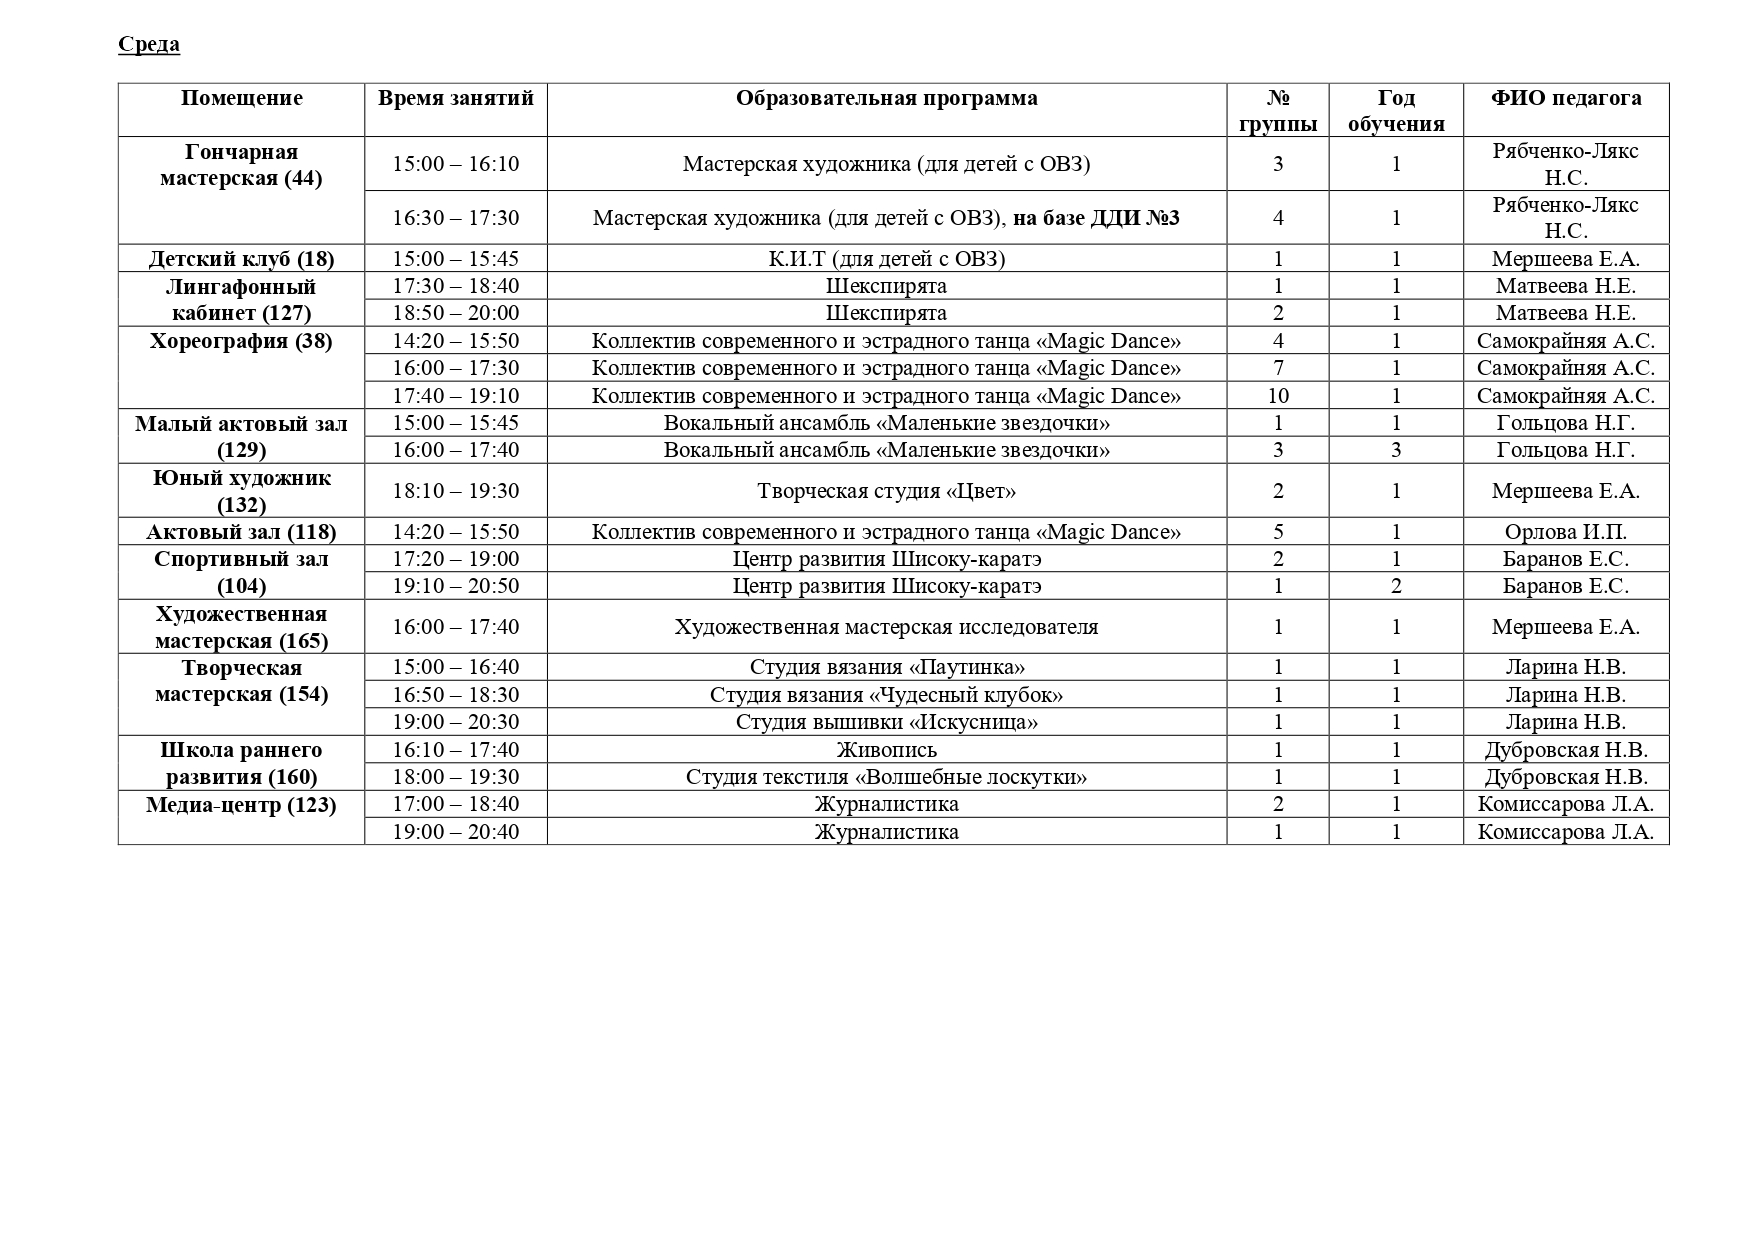
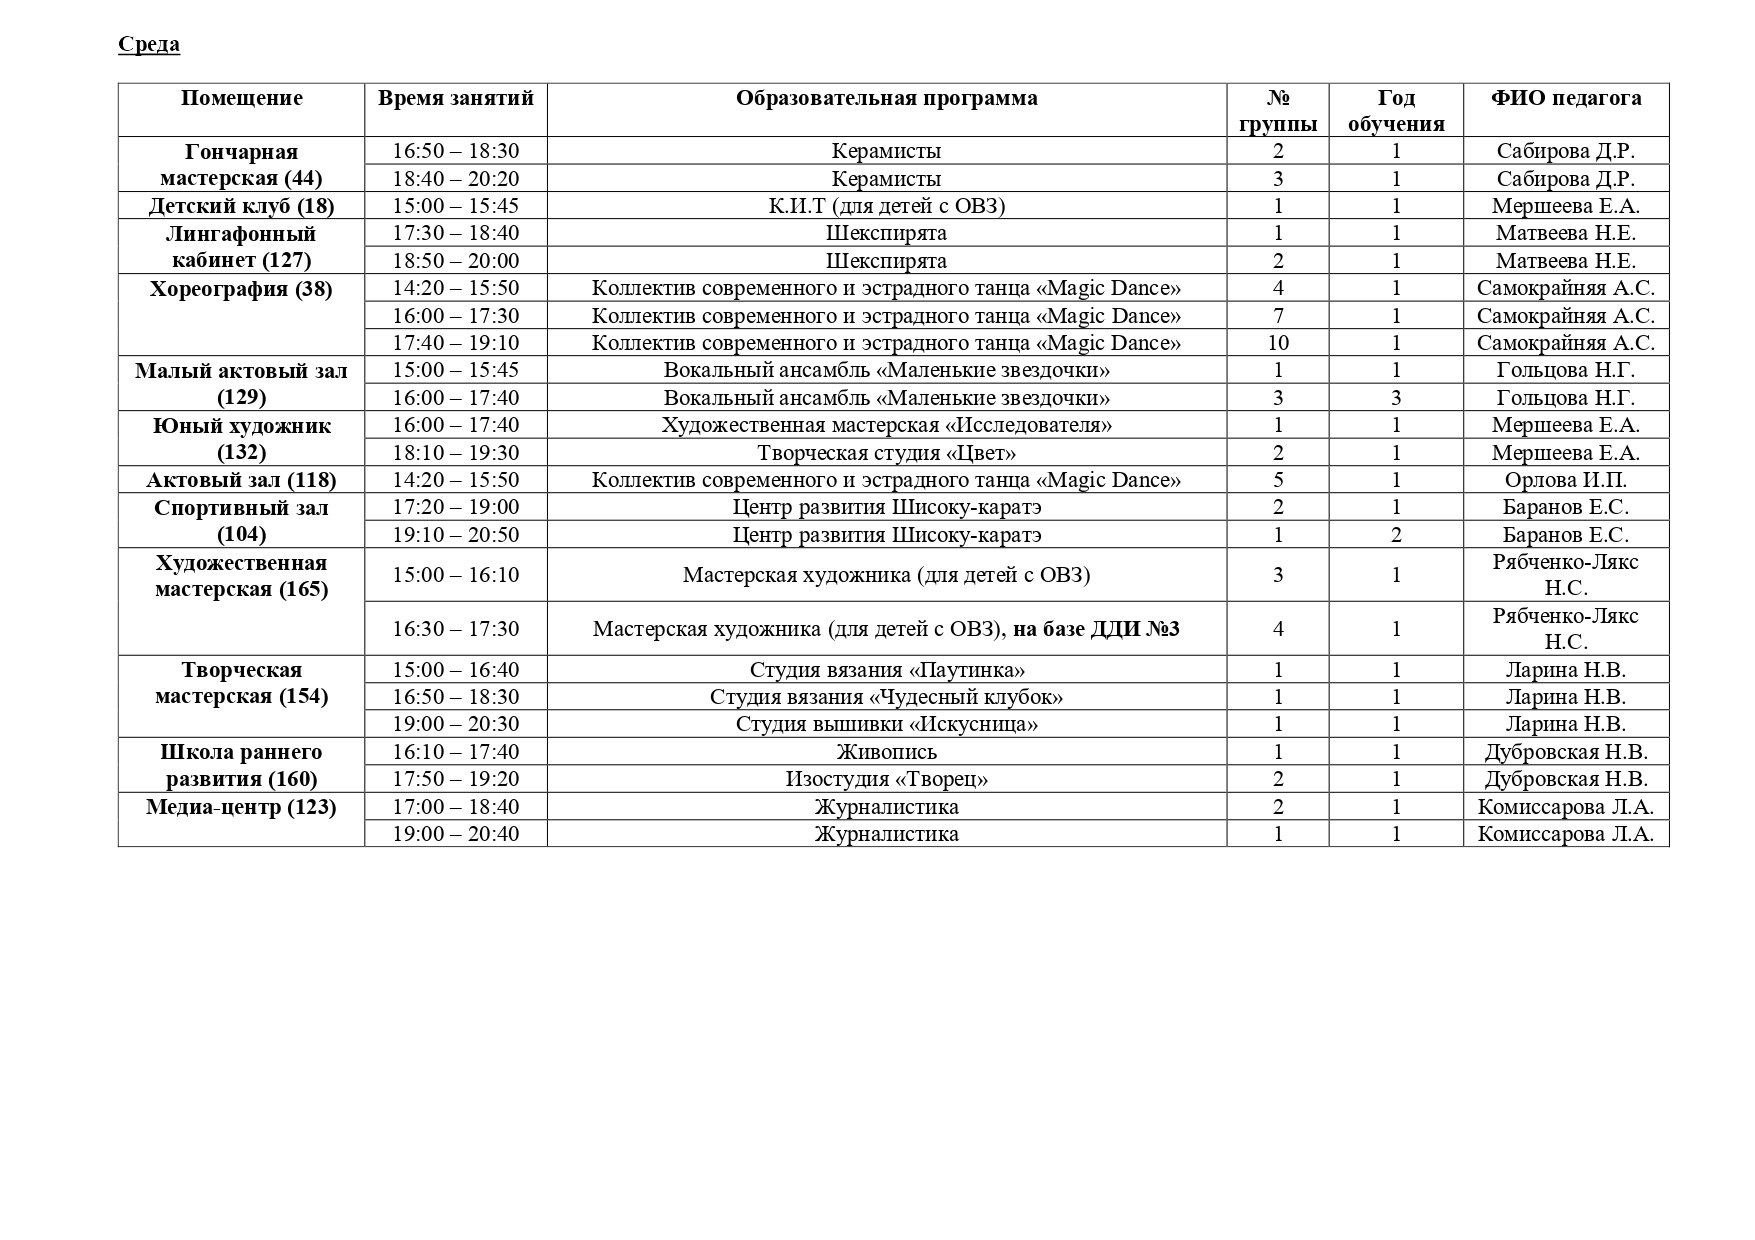
new courses + schedule fix

Changed region(s): [[0.0615, 0.0919, 0.9538, 0.7048]]

diff --git a/src/components/Courses/coursesCardsData.js b/src/components/Courses/coursesCardsData.js
@@ -5,6 +5,7 @@ const coursesCardsData = [
       src: "img/Courses/35.jpg",
     },
     title: "Изостудия «Творец»",
+    vacantPlaces: true,
     extraText: [5],
     category: "Художественная",
     programms: [
@@ -25,6 +26,8 @@ const coursesCardsData = [
         groups: [
           {
             id: 0,
+            vacantPlaces:
+              "Группа укомплектована (мест нет, возможна запись в резерв)",
             groupName: "Группа № 1",
             year: "1-й год обучения",
             age: "5 лет",
@@ -35,6 +38,23 @@ const coursesCardsData = [
               wednesday: "",
               thursday: "16:30 – 17:40",
               friday: "",
+              saturday: "",
+            },
+          },
+          {
+            id: 1,
+            // vacantPlaces:
+            //   "Группа укомплектована (мест нет, возможна запись в резерв)",
+            groupName: "Группа № 2",
+            year: "1-й год обучения",
+            age: "5 лет",
+            signInButtonAllowed: false,
+            schedule: {
+              monday: "",
+              tuesday: "",
+              wednesday: "17:50 – 19:20",
+              thursday: "",
+              friday: "17:50 – 19:20",
               saturday: "",
             },
           },
@@ -336,6 +356,124 @@ const coursesCardsData = [
   },
   {
     image: {
+      src: "img/Courses/39.jpg",
+    },
+    title: "Керамисты",
+    extraText: [5, 6, 7, 8, 9, 10, 11, 12],
+    vacantPlaces: true,
+    // extraInfo: [
+    //   {
+    //     text: "Укомплектовано",
+    //     description: "Мест нет - возможна запись в резерв",
+    //   },
+    // ],
+    category: "Художественная",
+    programms: [
+      {
+        programmName: "Керамисты",
+        teacher: {
+          teacherPic: ["./img/About/women-avatar.png"],
+          teacherName: ["Сабирова Динара Рафаиловна"],
+        },
+        category: "художественная",
+        duration: "1 год",
+        price: "на бюджетной основе (бесплатно)",
+        description: [
+          "В программе: лепка, аппликация, работа с гончарным кругом",
+        ],
+        groups: [
+          {
+            id: 0,
+            // vacantPlaces:
+            //   "Группа укомплектована (мест нет, возможна запись в резерв)",
+            groupName: "Группа № 1",
+            year: "1-й год обучения",
+            age: "5-6 лет",
+            signInButtonAllowed: false,
+            schedule: {
+              monday: "",
+              tuesday: "",
+              wednesday: "",
+              thursday: "",
+              friday: "17:20 – 18:30",
+              saturday: "",
+            },
+          },
+          {
+            id: 1,
+            // vacantPlaces:
+            //   "Группа укомплектована (мест нет, возможна запись в резерв)",
+            groupName: "Группа № 2",
+            year: "1-й год обучения",
+            age: "7-8 лет",
+            signInButtonAllowed: false,
+            schedule: {
+              monday: "16:50 – 18:30",
+              tuesday: "",
+              wednesday: "16:50 – 18:30",
+              thursday: "",
+              friday: "",
+              saturday: "",
+            },
+          },
+          {
+            id: 2,
+            // vacantPlaces:
+            //   "Группа укомплектована (мест нет, возможна запись в резерв)",
+            groupName: "Группа № 3",
+            year: "1-й год обучения",
+            age: "9-12 лет",
+            signInButtonAllowed: false,
+            schedule: {
+              monday: "",
+              tuesday: "",
+              wednesday: "18:40 – 20:20",
+              thursday: "",
+              friday: "18:40 – 20:20",
+              saturday: "",
+            },
+          },
+          {
+            id: 3,
+            // vacantPlaces:
+            //   "Группа укомплектована (мест нет, возможна запись в резерв)",
+            groupName: "Группа № 4",
+            year: "1-й год обучения",
+            age: "7-8 лет",
+            signInButtonAllowed: false,
+            schedule: {
+              monday: "15:00 – 16:40",
+              tuesday: "",
+              wednesday: "",
+              thursday: "",
+              friday: "15:30 – 17:10",
+              saturday: "",
+            },
+          },
+          {
+            id: 4,
+            // vacantPlaces:
+            //   "Группа укомплектована (мест нет, возможна запись в резерв)",
+            groupName: "Группа № 5",
+            year: "1-й год обучения",
+            age: "9-12 лет",
+            signInButtonAllowed: false,
+            schedule: {
+              monday: "18:40 – 20:20",
+              tuesday: "",
+              wednesday: "",
+              thursday: "",
+              friday: "",
+              saturday: "16:00 – 17:40",
+            },
+          },
+        ],
+        signInButton: "https://dopobr.petersburgedu.ru/programs/97009/groups/",
+      },
+    ],
+  },
+  {
+    image: {
       src: "img/Courses/15.jpg",
     },
     title: "Коллектив современного и эстрадного танца «Magic Dance»",
@@ -541,49 +679,49 @@ const coursesCardsData = [
       "./img/Courses/Achievements/15-8.jpeg",
     ],
   },
-  {
-    image: {
-      src: "img/Courses/32.jpg",
-    },
-    title: "Студия текстиля «Волшебные лоскутки»",
-    extraText: [6, 7],
-    category: "Художественная",
-    programms: [
-      {
-        programmName: "Студия текстиля «Волшебные лоскутки»",
-        teacher: {
-          teacherPic: ["./img/About/women-avatar.png"],
-          teacherName: ["Дубровская Наталия Вадимовна"],
-        },
-        category: "художественная",
-        duration: "1 год",
-        price: "на бюджетной основе (бесплатно)",
-        description: [
-          "Лоскутки - небольшие кусочки ткани, которые остались после раскроя и могут быть использованы для создания необычных изделий для декора.",
-          "В программе: индивидуальные работы детей /без использования иголок, ниток/, выполненных в технике «лоскутная аппликация» /объемная или плоская.",
-          "Результат: в процессе творческих занятий дети научатся создавать – лоскутные панно, декоративные украшения, подарки к праздникам, игрушки.",
-        ],
-        groups: [
-          {
-            id: 0,
-            groupName: "Группа № 1",
-            year: "1-й год обучения",
-            age: "6-7 лет",
-            signInButtonAllowed: false,
-            schedule: {
-              monday: "",
-              tuesday: "",
-              wednesday: "18:00 – 19:30",
-              thursday: "",
-              friday: "18:00 – 19:30",
-              saturday: "",
-            },
-          },
-        ],
-        signInButton: "https://dopobr.petersburgedu.ru/programs/92620/groups/",
-      },
-    ],
-  },
+  // {
+  //   image: {
+  //     src: "img/Courses/32.jpg",
+  //   },
+  //   title: "Студия текстиля «Волшебные лоскутки»",
+  //   extraText: [6, 7],
+  //   category: "Художественная",
+  //   programms: [
+  //     {
+  //       programmName: "Студия текстиля «Волшебные лоскутки»",
+  //       teacher: {
+  //         teacherPic: ["./img/About/women-avatar.png"],
+  //         teacherName: ["Дубровская Наталия Вадимовна"],
+  //       },
+  //       category: "художественная",
+  //       duration: "1 год",
+  //       price: "на бюджетной основе (бесплатно)",
+  //       description: [
+  //         "Лоскутки - небольшие кусочки ткани, которые остались после раскроя и могут быть использованы для создания необычных изделий для декора.",
+  //         "В программе: индивидуальные работы детей /без использования иголок, ниток/, выполненных в технике «лоскутная аппликация» /объемная или плоская.",
+  //         "Результат: в процессе творческих занятий дети научатся создавать – лоскутные панно, декоративные украшения, подарки к праздникам, игрушки.",
+  //       ],
+  //       groups: [
+  //         {
+  //           id: 0,
+  //           groupName: "Группа № 1",
+  //           year: "1-й год обучения",
+  //           age: "6-7 лет",
+  //           signInButtonAllowed: false,
+  //           schedule: {
+  //             monday: "",
+  //             tuesday: "",
+  //             wednesday: "18:00 – 19:30",
+  //             thursday: "",
+  //             friday: "18:00 – 19:30",
+  //             saturday: "",
+  //           },
+  //         },
+  //       ],
+  //       signInButton: "https://dopobr.petersburgedu.ru/programs/92620/groups/",
+  //     },
+  //   ],
+  // },
   {
     image: {
       src: "img/Courses/16.jpg",
